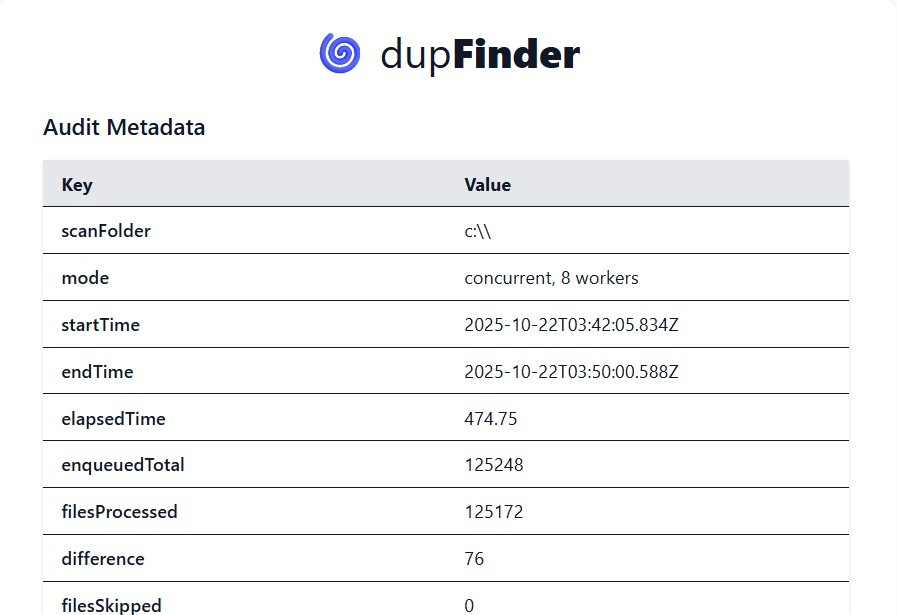
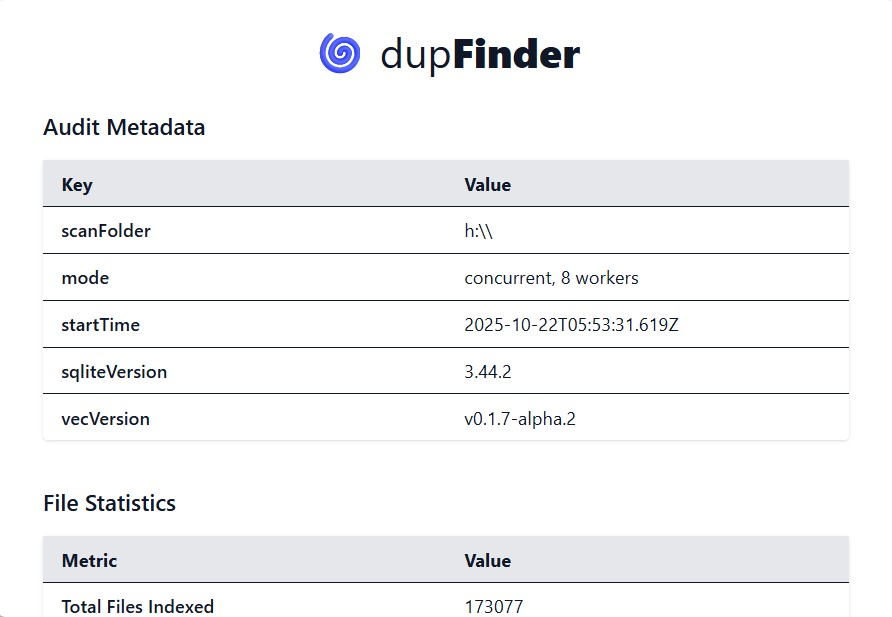
add version to info page

diff --git a/src/routes/info.js b/src/routes/info.js
@@ -5,12 +5,14 @@ const router = express.Router();
 
 router.get('/', async (req, res) => {
   try {
+    // Fetch audit metadata
     const auditRows = await db.all(`
       SELECT auditKey, auditValue
       FROM audit
       ORDER BY id ASC
     `);
 
+    // Fetch file statistics
     const fileStats = await db.all(`
       SELECT
         (SELECT COUNT(*) FROM files) AS totalFilesIndexed,
@@ -21,6 +23,7 @@ router.get('/', async (req, res) => {
         (SELECT MAX(modifiedAt) FROM files) AS latestModifiedAt
     `);
 
+    // Fetch top 10 file formats
     const topFormats = await db.all(`
       SELECT fileFormat, COUNT(*) AS count
       FROM files
@@ -37,6 +40,14 @@ router.get('/', async (req, res) => {
 
     Object.assign(info, fileStats[0]); // merge file stats
     info.topFileFormats = topFormats;  // add top 10 formats
+
+    // Fetch SQLite and VSS version
+    const versions = await db.get(`
+      SELECT sqlite_version() AS sqlite_version, vec_version() AS vec_version
+    `);
+    
+    info.sqliteVersion = versions.sqlite_version;
+    info.vecVersion = versions.vec_version;
 
     res.render('info', { info });
   } catch (err) {
